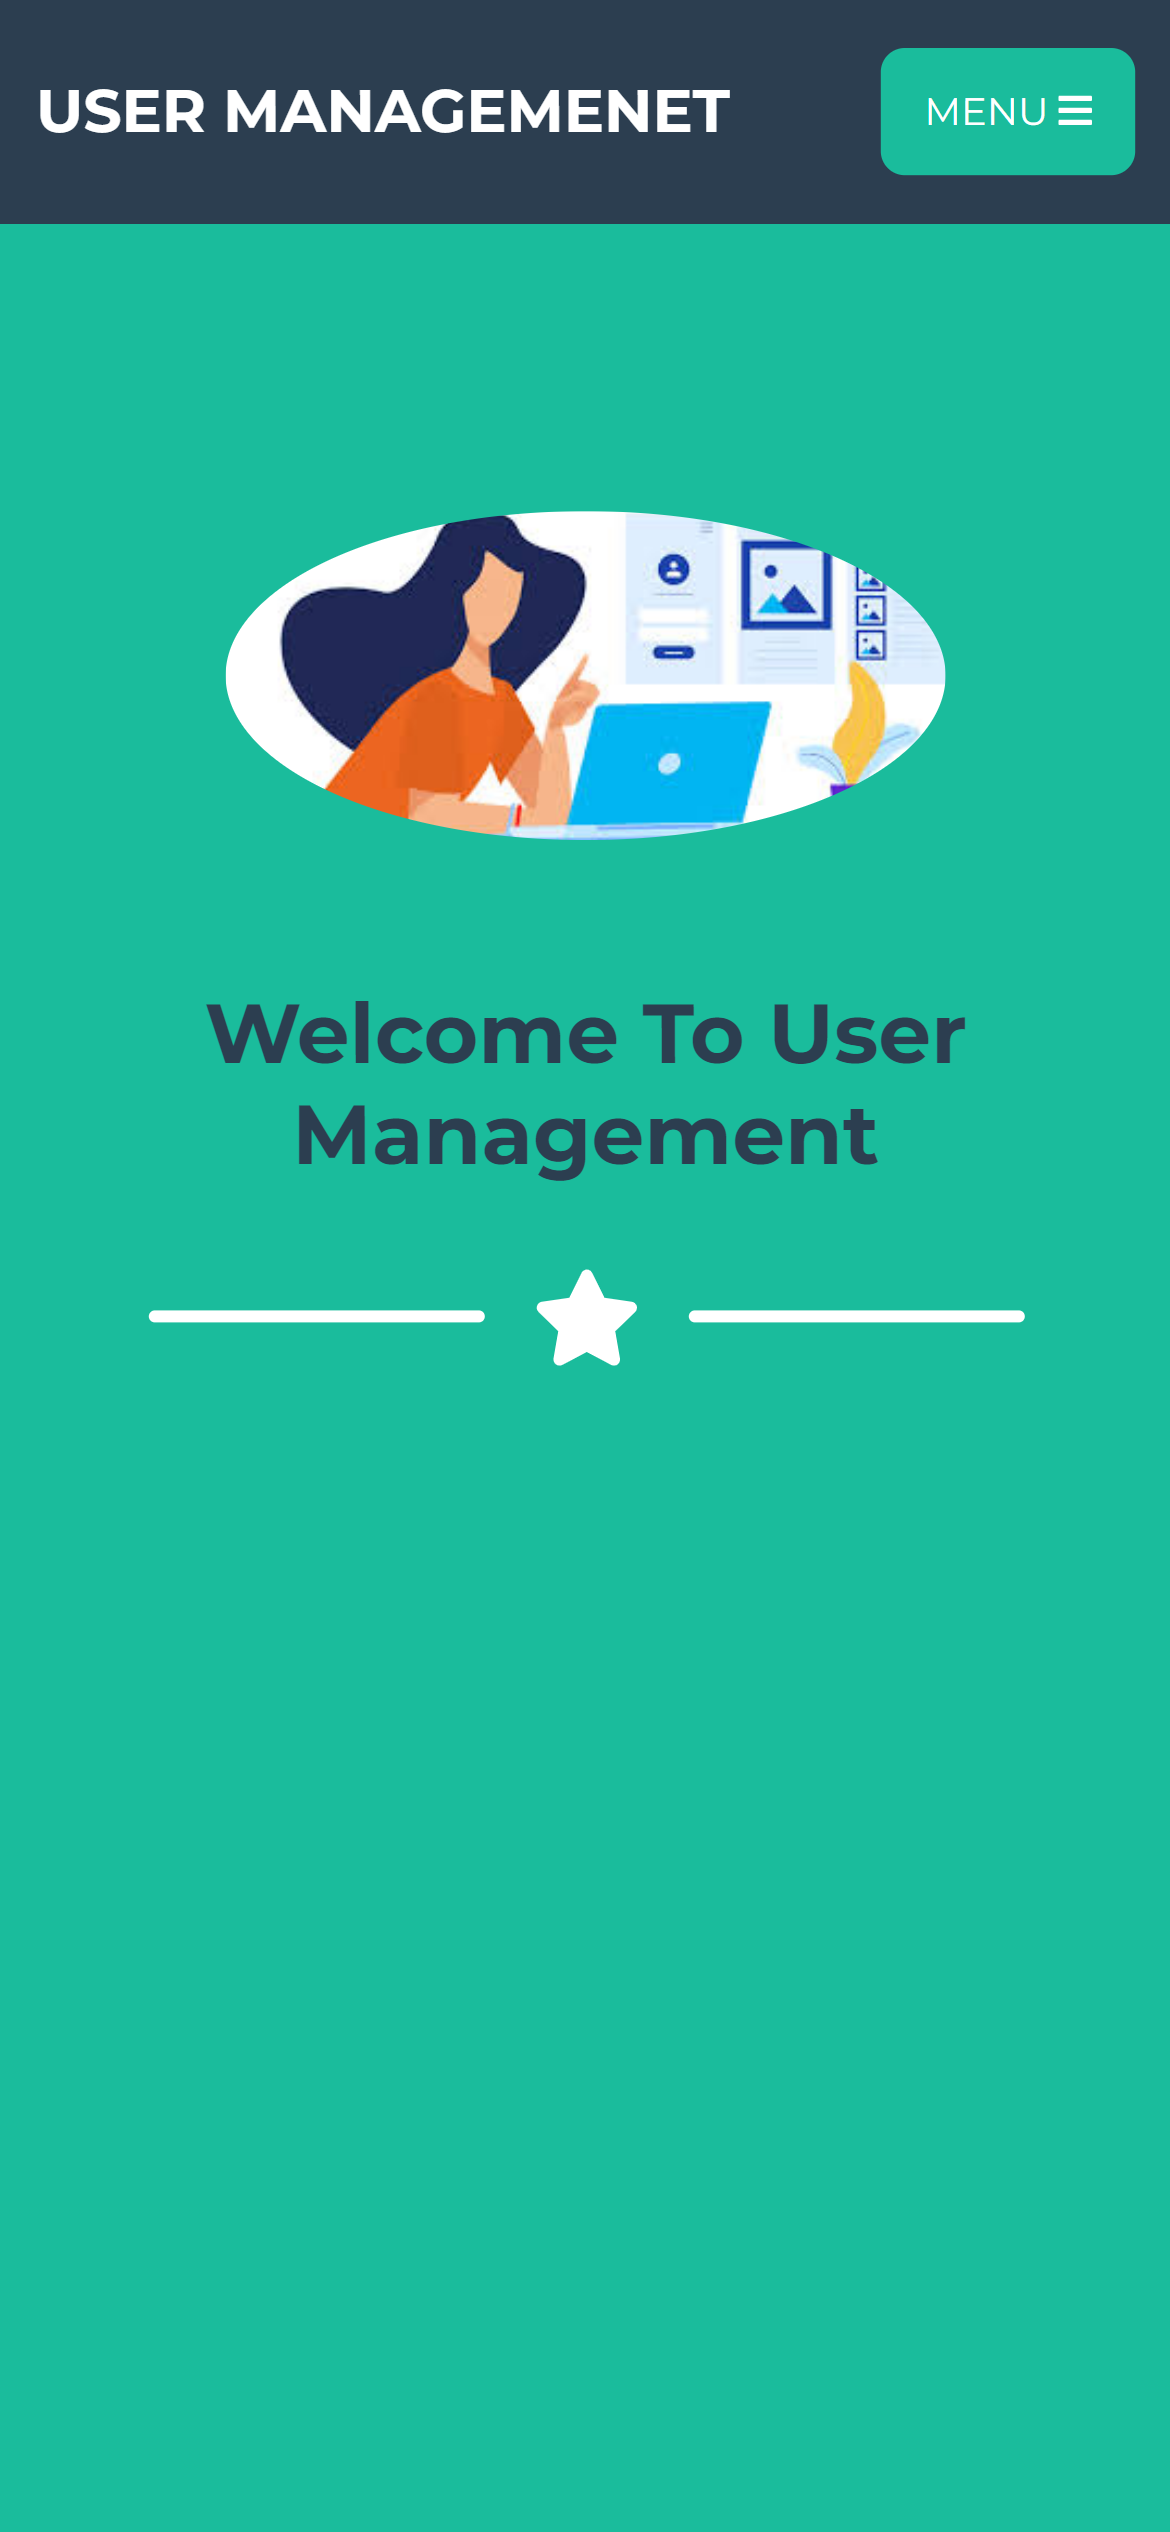
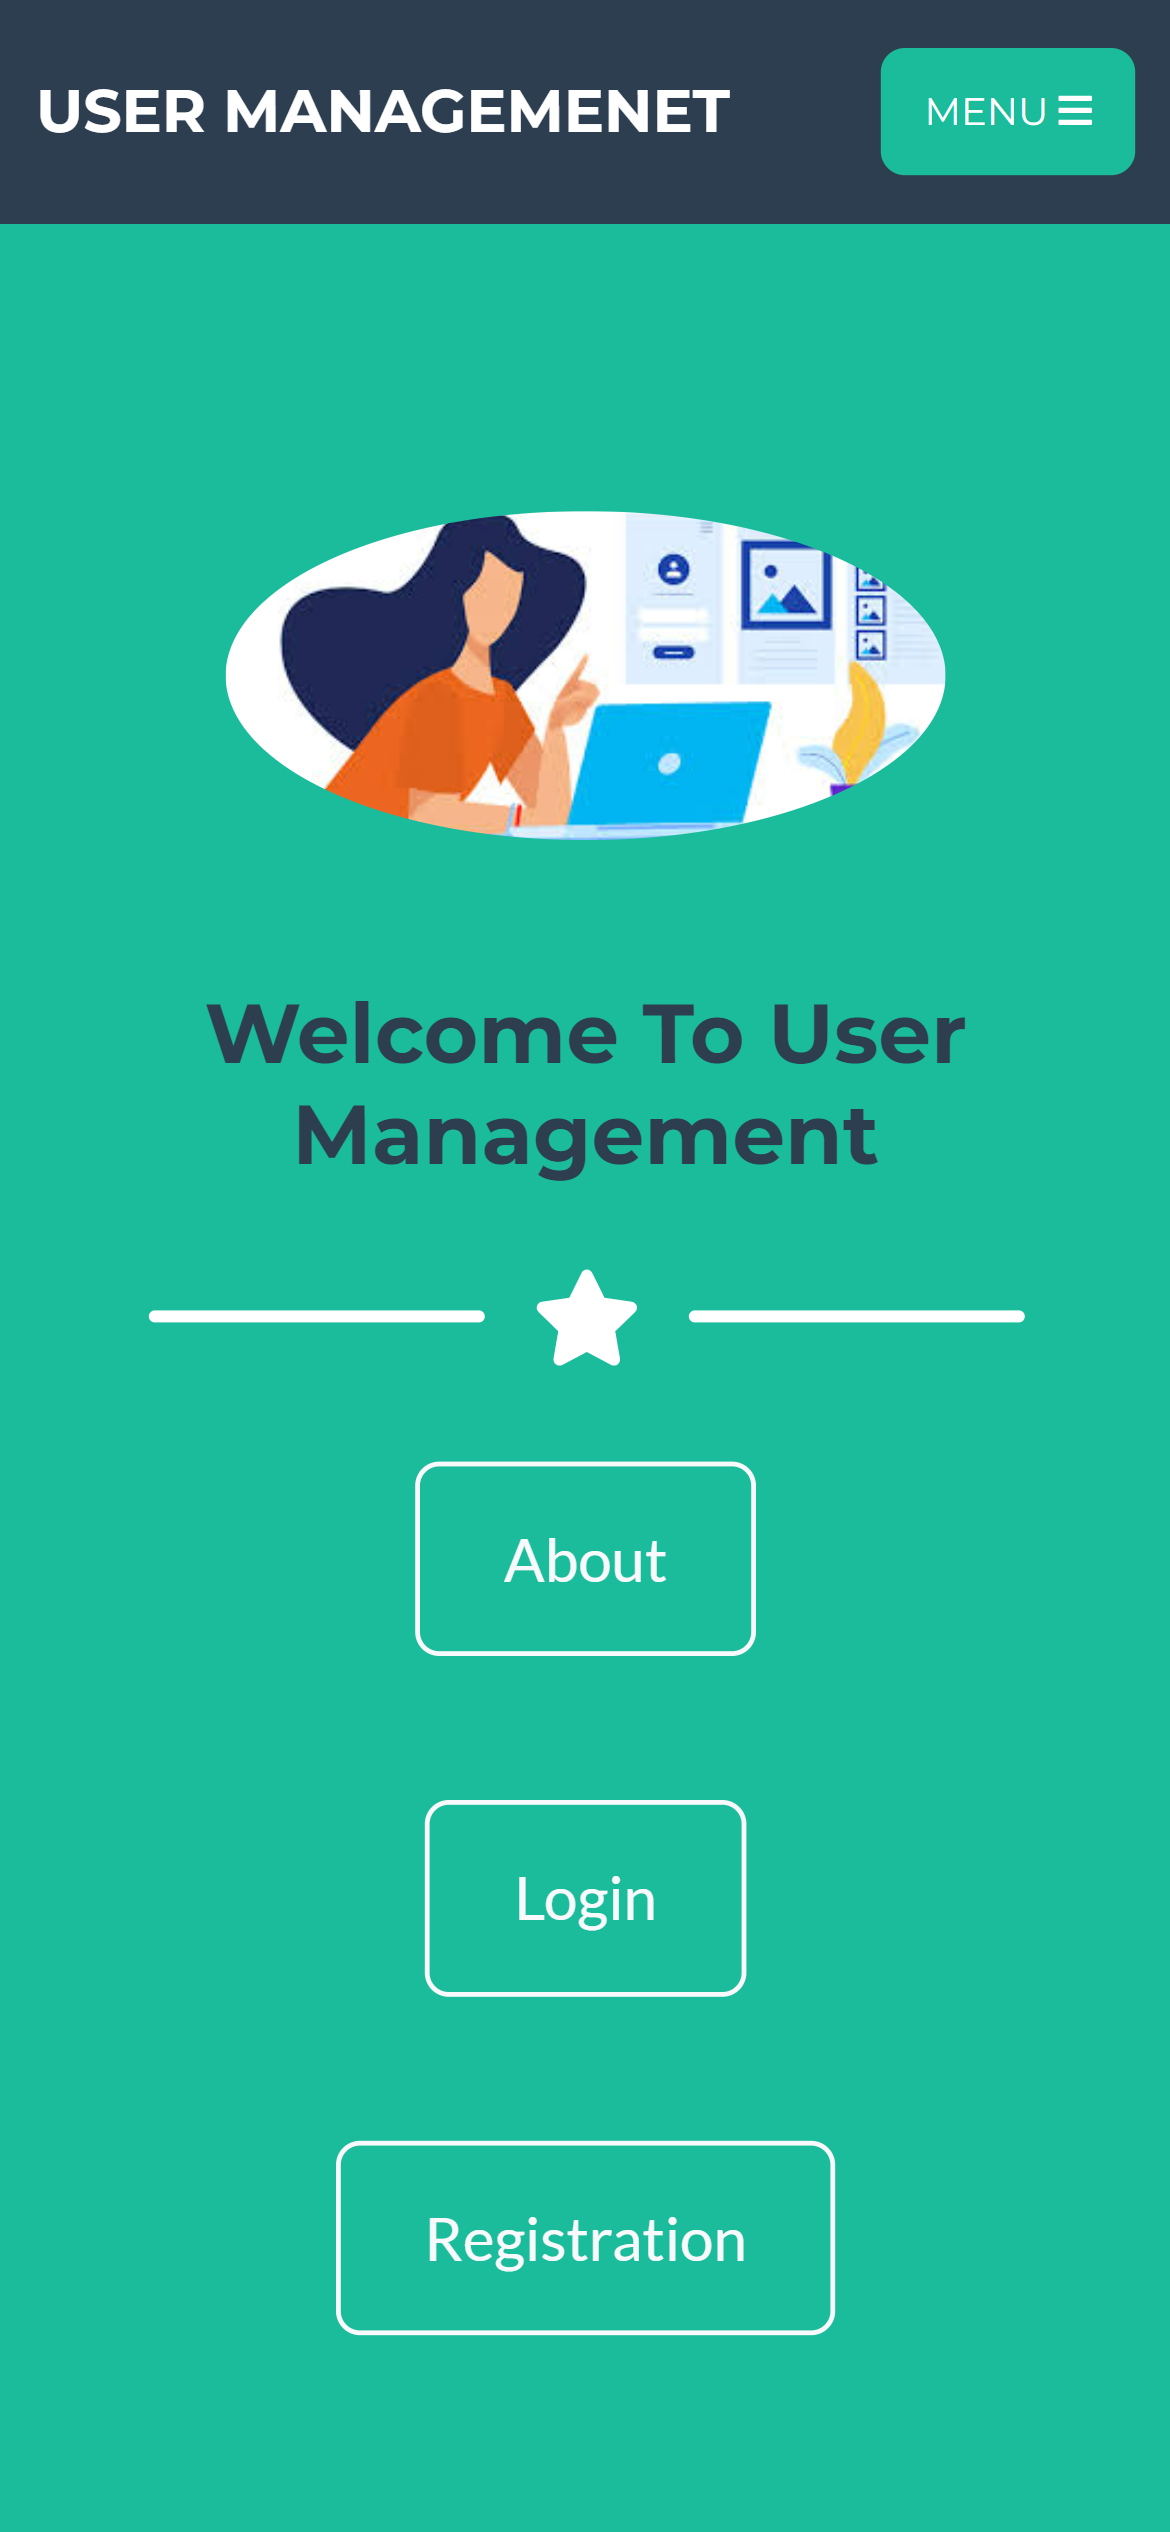
completed user management app

diff --git a/README.md b/README.md
@@ -1,1 +1,112 @@
-"# User management" 
+
+# ![WebApp](WebContent/images/landing-page.png)
+
+# UserManagement -- web Application
+
+> UserManagement is a simple user management app
+
+## Table of contents
+
+
+- [](#)
+- [UserManagement -- web Application](#usermanagement----web-application)
+  - [Table of contents](#table-of-contents)
+  - [App Description](#app-description)
+  - [User Story](#user-story)
+  - [Site Screenshots](#site-screenshots)
+    - [Landing page that explains what the app does and how to get started.](#landing-page-that-explains-what-the-app-does-and-how-to-get-started)
+    - [Users page where the users can see all the list of users and  edit, and delete users.](#users-page-where-the-users-can-see-all-the-list-of-users-and--edit-and-delete-users)
+    - [Add user page where user can add user.](#add-user-page-where-user-can-add-user)
+    - [Register page where the users can register.](#register-page-where-the-users-can-register)
+    - [Login page where the users can login to use this application.](#login-page-where-the-users-can-login-to-use-this-application)
+  - [Built with](#built-with)
+  - [Development](#development)
+
+
+
+
+## App Description
+
+<table>
+<tr>
+<td>
+ User management is a user managing application. It's a JAVA dynamic webapp. This application build using JSP + Servlet + JDBC + MySQL. To use this application user need to registration then login to the application. With this application admin can save user information, edit the information and Delete the information. This website is supported on Chrome, Firefox, and Safari. This app is a fully responsive website. This app is responsive.
+
+
+</td>
+</tr>
+</table>
+
+
+
+## User Story
+
+* I can register.
+
+* I can login.
+
+* I can see all the list of my user.
+
+* I can save user.
+
+* I can view all users.
+
+* I can edit users.
+
+* I can delete users.
+
+
+
+## Site Screenshots
+
+
+### Landing page that explains what the app does and how to get started.
+
+Desktop view | Mobile view
+------------- | -------------
+<img src="WebContent/images/landing-page.png" alt="" width="100%" /> | <img src="WebContent/images/mobile-landing-page.png" alt="" width="60%" />
+
+### Users page where the users can see all the list of users and  edit, and delete users.
+Desktop view | Mobile view
+------------- | -------------
+<img src="WebContent/images/list-of-user.png" alt="" width="100%" /> | <img src="WebContent/images/mobile-list-of-user.png" alt="" width="60%" />
+
+
+### Add user page where user can add user.
+Desktop view | Mobile view
+------------- | -------------
+<img src="WebContent/images/add-user.png" alt="" width="100%" /> | <img src="WebContent/images/mobile-add-user.png" alt="" width="60%" />
+
+
+### Register page where the users can register.
+Desktop view | Mobile view
+------------- | -------------
+<img src="WebContent/images/registration.png" alt="" width="100%" /> | <img src="WebContent/images/mobile-registration.png" alt="" width="45%" />
+
+### Login page where the users can login to use this application.
+Desktop view | Mobile view
+------------- | -------------
+<img src="WebContent/images/login.png" alt="" height="100%" /> | <img src="WebContent/images/mobile-login.png" alt="" width="90%" />
+
+
+
+
+
+
+
+
+## Built with
+
+- Java
+- JSP 
+- css
+
+
+## Development
+
+Want to contribute? Great Please reachout to me.
+
+Thanks in advance!
+
+Thanks again for your time.
+
